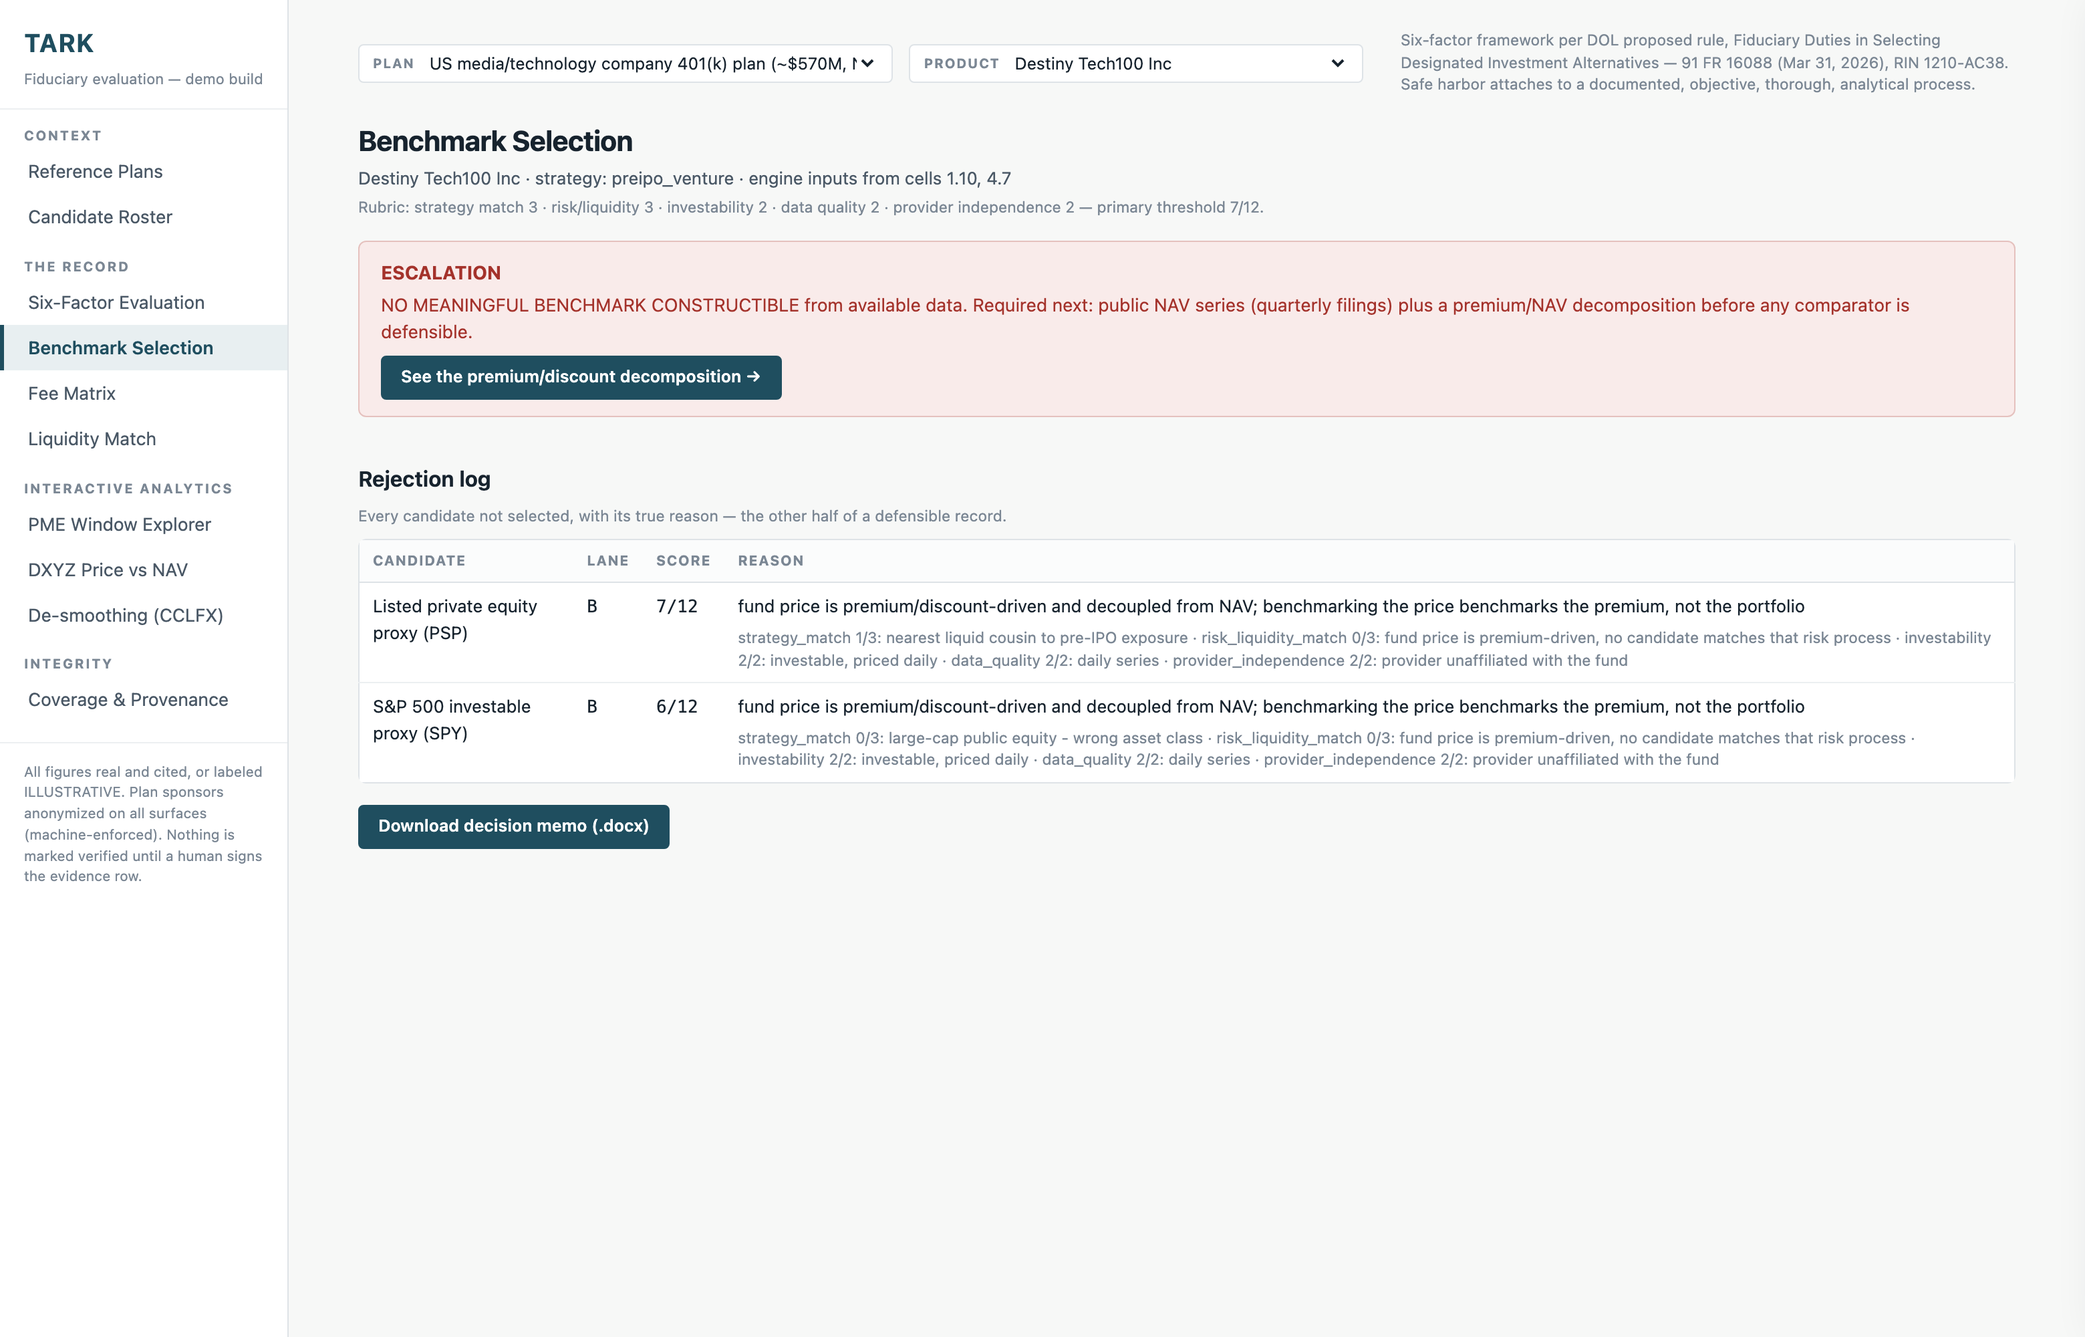
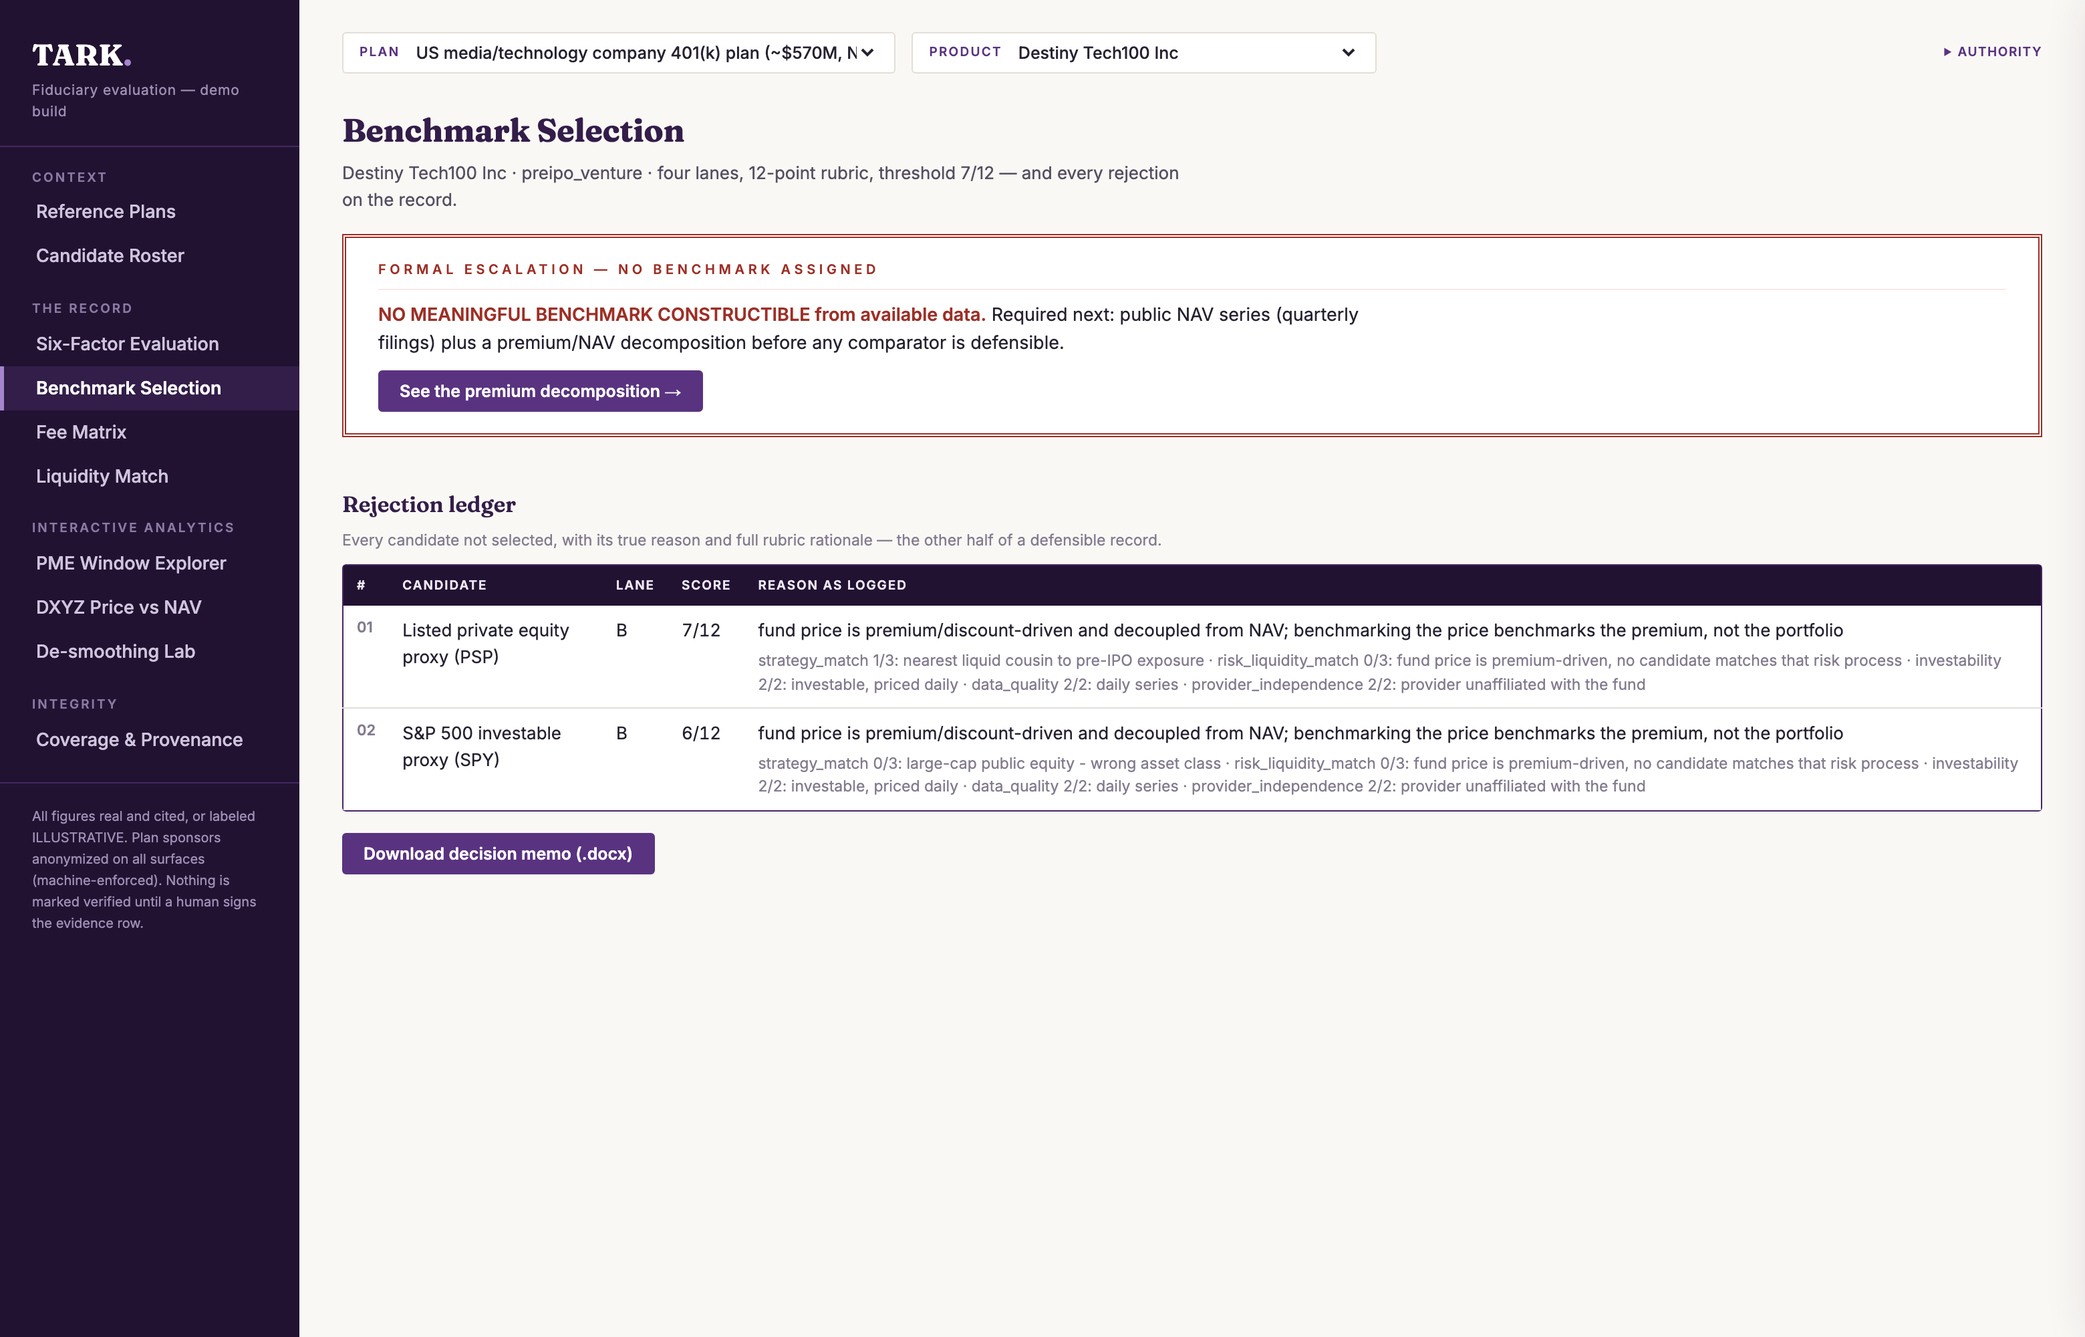
demo kit refresh: 10 new-design screenshots (incl. breit rho exhibit), demo script v3, runbook update, BUILD_REPORT_2

Changed region(s): [[0.0, 0.0, 0.9949, 1.0], [0.6218, 0.031, 0.9638, 0.062]]

diff --git a/docs/demo_script.md b/docs/demo_script.md
@@ -1,20 +1,24 @@
-# Tark Demo Script — 7 minutes (investor MVP frontend)
+# Tark Demo Script — 7 minutes (design-pass build)
 ### Setup: docs/INVESTOR_DEMO.md reset steps done; browser on the Pages URL, Reference Plans view, tech/media plan selected. Fallback: docs/screenshots/.
 
-**0:00 — Reference Plans.** "Four real 401(k) plans from public Form 5500 filings — anonymized by rule, machine-enforced. A ~$570M tech/media plan, a $1.6B restaurant plan where only 43,000 of 198,000 active employees even hold a balance, a $9.8B consulting plan where 58% of accounts belong to alumni, and a $790M union manufacturer. Same products, different plans — you'll see the answers change." Click the tech/media card.
+**0:00 — Reference Plans.** "Four real 401(k) plans from public Form 5500 filings, anonymized by machine-enforced rule. Numbers first: a ~$570M tech plan, a $9.8B consulting plan where 58% of accounts are alumni, a $1.6B restaurant plan where most actives hold no balance, a $790M industrial plan. The plan you pick drives every verdict."
 
-**0:45 — Candidate Roster.** "Six real products, six wrappers, live evidence coverage — every cell traceable to a filing. 54% coverage, and the UI shows what's pending instead of hiding it."
+**0:45 — Coverage & Provenance.** "Before any analysis: the state of the record. *54% evidenced, 18% computed, 27% documented-unavailable, zero unresolved.* Every one of 324 cells is either cited to a filing, computed by the pipeline, or carries a specific reason it cannot be public-sourced. And the integrity stat: an independent cross-check re-located 44 cells, confirmed 42, caught 2 errors we corrected in the open. Zero cells are human-verified yet — the record says so itself."
 
-**1:15 — Six-Factor Evaluation (hl_paf).** Open Fees → cell 2.1 → **cite**: *"1.40% — but on Managed Assets, which includes leverage. The drawer shows the filing, the section, the verbatim quote, and who extracted it. Nothing here is 'verified' until a human signs the evidence row — that honesty is the product."*
+**1:30 — Six-Factor Evaluation (hl_paf).** "Every cell leads with its figure; the prose is one click away, and jargon defines itself on hover." Open 2.1's source: *"1.40% — on Managed Assets, leverage-inclusive. Filing, section, verbatim quote, extractor, and the empty verified-by line a human still has to sign."* Point at the rollup strip: *"six factors, evidenced counts, one click each."*
 
-**2:15 — Fee Matrix.** "All six side by side. Red chips are derived from the cells themselves: BREIT and K-PEC charge on NAV; DXYZ charges 2.50% on GROSS assets including borrowings — the leverage-inclusive trap; Hamilton Lane on Managed Assets. And the K-1 row: K-PEC issues Schedule K-1s — near-disqualifying for a DC recordkeeper; StepStone advertises 1099s in its prospectus. Same factor, opposite answers, both cited."
+**2:15 — Fee Matrix.** "The bar chart is only the funds that HAVE an expense ratio — where there's no TER line, the chart says so instead of faking one. Red chips: DXYZ charges 2.50% on GROSS assets including borrowings; K-PEC issues K-1s — StepStone advertises 1099s. Same factor, opposite answers, all cited."
 
-**3:00 — Benchmark Selection (cliffwater_cclfx).** "The moat. Four lanes, a 12-point rubric, and the rejection log with full rationale printed — the CDLI is the most strategy-exact index available and it's published by the fund's own adviser; the engine scored independence 0/2 and says so, in writing. The fund itself declares NO benchmark — so the engine constructs one and logs why." Point at KS-PME 1.2532 / +3.22%. Click **Download decision memo**.
+**3:00 — Benchmark Selection (cliffwater_cclfx).** "Four lanes, 12-point rubric, and the rejection LEDGER — every rejected candidate numbered, with its full rubric rationale printed. The CDLI is the most strategy-exact index and it's published by the fund's own adviser: independence 0/2, on the record. KS-PME 1.2532, +3.22% alpha." Download the memo.
 
-**4:00 — Benchmark Selection (dxyz) → DXYZ Price vs NAV.** "When no meaningful benchmark exists, the tool refuses and escalates." Click through to the chart: *"Listed at $8.25 open, $99.79 twelve days later, −90.3% drawdown — and the red dots are the fund's own quarterly NAV: $5 to $24.56. The gap IS the premium. Benchmarking that price benchmarks the premium, not the portfolio."*
+**3:45 — Benchmark Selection (kkr_kpec, then breit).** "New since last build: the two 10-K wrappers now have full selections — and the engine is honest when the answer is unflattering. K-PEC: PME 0.90 vs listed PE. BREIT: PME 0.91 vs listed REITs, with NCREIF ODCE as secondary — cited but honestly labeled as data-not-held. No product gets a free pass because it's on the roster."
 
-**4:45 — Liquidity Match (cclfx, tech/media plan).** "Quarterly 5% interval fund — eight consecutive N-23C3A filings prove the cadence — against this plan: CONDITIONAL, structural gap named, bridging structure named." **Switch plan to the consulting plan:** *"Same fund, different plan: the tail is 58% of accounts, scenario demand eats two-thirds of wrapper capacity — THIN HEADROOM — and this plan's own 5500 codes say it's only partially participant-directed, so the structural reasoning changes too. Same fund, two plans, two answers."* Switch product to breit: *"CONDITIONAL-WEAK — its own 10-K admits prorated repurchases. Capacity on paper has failed in stress, and the record says so."* Drag a slider: *"Scenario parameters are adjustable and labeled ILLUSTRATIVE — always."*
+**4:15 — DXYZ.** "And when no benchmark is defensible, a FORMAL NOTICE, not a hedge." Click through to the chart: *"$8-ish to $99.79 to −90.3%, red dots are the fund's own filed NAV crawling from $5 to $24.56. The gap is the premium; benchmarking the price benchmarks the premium."*
 
-**5:45 — PME Window Explorer.** "The new beat. This is our own methodology's disclosure made interactive: appraisal-lagged NAVs are window-sensitive. Watch the alpha change when I move the window start—" drag: 1.2532 becomes something else, live. *"Everyone else hides this; we lead with it. The committed number uses the full disclosed window, and the code that just recomputed passes the same unit tests as the engine."*
+**5:00 — Liquidity Match (cclfx, tech plan → consulting plan).** "Wrapper capacity is a filed fact; demand is an adjustable ILLUSTRATIVE scenario — watch the bars." Switch to the consulting plan: *"58% alumni tail: demand eats two-thirds of capacity — THIN HEADROOM — and under the stress test it EXCEEDS the wrapper entirely. Same fund, two plans, two answers, and the plan's own 5500 codes changed the structural reasoning."* Drag a slider: bars move live.
 
-**6:30 — Coverage & Provenance + close.** "54% evidence coverage, extracted vs computed vs pending all shown, zero cells human-verified yet — and the integrity stat: an independent cross-check re-located 44 cells, confirmed 42, caught 2 errors which we corrected in the open. Six factors, real filings, a rejection log, plan-level liquidity verdicts, a memo for ERISA counsel — the workflow layer for the rule's effective date."
+**5:45 — De-smoothing Lab.** "The smoothing story now has two exhibits. CCLFX: ρ 0.139, mild. BREIT — from its OWN printed monthly NAV table: ρ 0.483, heavy; observed 2.4% de-smooths to 4.1%. That's the quantitative counterpart of its gating history: smoothed NAV, real redemptions. And for the funds where this diagnostic can't run, the reason renders where the chart would be."
+
+**6:15 — PME Window Explorer.** "Our methodology's own disclosure, interactive: drag the window and watch 1.2532 move. Everyone else hides window-sensitivity; we lead with it — the committed number uses the full disclosed window, and the browser runs the same parity-tested code as the engine."
+
+**6:45 — Close.** "A complete record — zero unresolved cells — with its rejections, its stress tests, its corrections, and its unverified-by-a-human honesty all on the surface. This is the workflow layer for the rule's effective date."

diff --git a/docs/BUILD_REPORT_2.md b/docs/BUILD_REPORT_2.md
@@ -1,0 +1,59 @@
+# Tark Build Report 2 — Coverage Max-Out + Design Pass
+**2026-08-09 · branch `design-pass` merged to `main` · rollback tag `pre-design-pass`**
+
+## 1. Coverage taxonomy: before → after
+
+| | before (v10) | after |
+|---|---|---|
+| Evidenced (extracted + partial + fetched) | 149 cells | **176 cells (54%)** |
+| Computed (pipeline, with artifact provenance) | 10 | **59 (18%)** |
+| Documented-unavailable (specific, true reasons) | 36 | **89 (27%)** |
+| Bare `pending` | **129** | **0** |
+
+**The line the UI displays: "54% evidenced · 18% computed · 27% documented-unavailable · 0 unresolved."** (`data/analytics/taxonomy.json`, rendered on Coverage & Provenance.)
+
+Method: a 12-agent extract+adversarial-verify workflow resolved 70 cells from filings (every quote machine-checked against stripped filing text); 48 cells became `computed`/`fetched` via pipeline extensions (stressed redemption scenarios, universe fee percentile, stress windows, dxyz premium decomposition, engine-lane artifacts); the remainder carry specific documented reasons (LP-only economics, workflow cells, attestation-gated fact sheets, granularity limits). `pending-verify` was needed zero times.
+
+Notable finds along the way:
+- **BREIT prints a full monthly NAV table in its 10-K** (Jan 2023–Dec 2025, Class I). Extracted, adversarially verified against raw HTML, stored at `data/series_monthly/breit_nav.csv` → de-smoothing now runs on BREIT: **ρ = 0.483 (heavy smoothing), observed 2.41% → de-smoothed 4.12% ann. vol, −7.9% NAV-path drawdown** — the quantitative counterpart of its 2022–24 gating history.
+- **kkr_kpec + breit benchmark selections now exist** (the last faked-nothing gap): K-PEC → PSP primary, **KS-PME 0.8964 / −4.58%/yr**; BREIT → VNQ primary (NCREIF ODCE secondary, honestly labeled data-not-held), **KS-PME 0.9073 / −3.19%/yr** — both windows fully on-record (BREIT's 2023/2024 returns fetched from its prior two 10-Ks, now in `data/raw/breit/` + manifest). The engine does not flatter roster products.
+- **Methodology correction (disclosed):** displayed index growth was month-end-sampled while KS-PME anchored daily — windows starting on non-trading days silently dropped the first partial month. Both sides are now daily-anchored. Effect: cclfx KS-PME 1.2519 → **1.2532** (+3.21 → +3.22%/yr); hl_paf unchanged (1.9565). All tests, memos, and the JS port updated in lockstep; parity re-verified in-browser.
+- DXYZ quarterly NAV table could NOT be extended: the NPORT-P has no NAV-per-share element (documented in the record), and Jan–May 2026 monthly NAVs are printed nowhere — not interpolated.
+
+## 2. Design tokens summary (`site/app.css`)
+
+- **Purple ramp** `--plum-50…950`: #593380 saturated primary (actions/accents), #331d49–#221232 aubergine (headers/nav), pale tints for surfaces — over warm neutrals (paper #faf8f5, ink #262130, warm hairlines).
+- **Status colors moved OFF the brand axis** — `computed` re-hued from violet to **teal (#14636d)** so pipeline outputs never read as brand decoration; verified/extracted green, partial amber, fetched steel, escalation crimson, ILLUSTRATIVE burnt-orange badge. All pairings AA on their tints.
+- **Type:** Fraunces 600/700 (display headings) + Inter 400/500/600 (text; tabular numerals via `font-variant-numeric` for every figure). Committed woff2 via `@font-face` — zero runtime CDN calls; OFL licenses in `site/fonts/LICENSES.txt`.
+- **Components:** 4px spacing scale; ledger table (rejection log as numbered, ruled entries with full rubric rationale printed); **formal-notice** component for escalations (double-rule border, small-caps head); availability-honesty `nochart` block; glossary term chips (dotted underline, hover definition — plain language primary, term-of-art secondary); coverage rings; motion 160–220ms ease only. No gradients, no glassmorphism, no emoji.
+- **Numbers-first:** every cell renders headline figure → one plain-language line → full sourced text + provenance behind a "Full text & provenance" disclosure; per-factor rollup strips with anchor links; view intros cut to one sentence; the rule citation lives behind an "Authority" disclosure. ILLUSTRATIVE labels kept prominent everywhere scenario math shows.
+
+## 3. Chart inventory, by data tier (all generated from the bundle)
+
+| Tier | Products | Visuals |
+|---|---|---|
+| Daily series | cclfx, dxyz | full price/NAV lines (evaluation header chart); DXYZ price-vs-NAV log chart with filed NAV points + premium table; CCLFX observed-vs-de-smoothed monthly series; PME explorer (monthly window slider) |
+| Printed monthly | breit | monthly NAV path chart; de-smoothing lab (ρ 0.483 exhibit); NAV-path drawdown stat |
+| Filing-annual | hl_paf, stepstone_spm, kkr_kpec (+breit annual returns) | fiscal-year NAV/share charts from `data/series_annual/*.csv`, labeled "annual disclosure cadence"; PME explorer with fiscal-year window steps |
+| Per plan × product (24) | all | capacity-vs-demand bar visual (filed capacity vs illustrative base + stressed demand), live with sliders |
+| Cross-product | all | fee TER bar chart (no-TER wrappers say so in place); coverage rings ×6; taxonomy donut; crosscheck integrity tiles |
+| Impossible → reason rendered | hl/kkr/spm monthly diagnostics; dxyz de-smoothing | availability-honesty blocks with the documented reason, same voice as the DXYZ escalation |
+
+## 4. Punch list status
+- Manufacturer plan relabeled → "US industrial manufacturer 401(k) plan (~$0.8B, OH)" ✅
+- Chart tooltips (hover values + guide line, all line charts) ✅
+- Per-factor anchors (rollup strip) ✅
+- `docs/screenshots/` refreshed (10 shots, new design, incl. the BREIT ρ exhibit) ✅
+- `docs/demo_script.md` + `docs/INVESTOR_DEMO.md` updated ✅
+- e2e extended: details-open anonymization sweep (240 combos), glossary chips, kkr/breit selections asserted, new components (ledger, notice, rings, donut, capacity visual), JS↔Python parity re-verified after the anchoring correction ✅ — suite is now 66 checks; the mid-build hook rejection (stale `#o_dpct` locator) is the gate doing its job.
+
+## 5. Deferred, with reasons
+- **BREIT monthly Jan–May 2026 NAVs** — printed nowhere (10-Q carries only the Jun 30 point); not interpolated by policy.
+- **hl_paf / stepstone_spm / kkr_kpec monthly series** — fact sheets sit behind investor-attestation gates (not free-public); documented per cell 1.6/1.7/4.8. If the founders obtain them legitimately, the de-smoothing lab picks them up automatically (tier-driven).
+- **NCREIF ODCE series ingestion** — member/subscription distribution; kept in the menu as honestly-rejected/secondary-cited.
+- **Glossary coverage** — 36 terms; grows by editing one dict in `build_site.py`.
+
+## 6. Gates & deploys
+Hook (unchanged 7 steps, assertions strengthened): validator · analytics · benchmark · memo · Streamlit suite · site build (anonymization refusal) · frontend e2e. All green on the merge commit. Deploys: GitHub Pages redeployed from the merged build; Streamlit auto-redeploys from `main` (plan relabel + data updates flow through).
+
+Build-chat sync required: zip the full repo minus data/raw (`zip -r ~/Desktop/tark_repo_sync2.zip . -x 'data/raw/*' -x '.venv/*' -x '.git/*'`) and upload to the build chat for review.

diff --git a/docs/INVESTOR_DEMO.md b/docs/INVESTOR_DEMO.md
@@ -35,18 +35,15 @@ The build refuses to emit the bundle if any plan-sponsor token would leak.
 4. Open the Pages URL, hard-refresh (Cmd+Shift+R) to bust module cache.
 5. Land on **Reference Plans** with the tech/media plan selected (default).
 
-## Known rough edges
-- Charts are hand-rolled SVG: no tooltips/hover on data points yet (click
-  targets are the cite buttons, not chart geometry).
-- The six-factor view is one long scroll per product (no per-factor anchor
-  links yet); use browser find (Cmd+F) live if you need a specific cell fast.
-- `hl_paf` PME explorer moves in fiscal-year steps (annual disclosure is the
-  honest granularity); only CCLFX has the smooth monthly slider.
+## Known rough edges (design-pass build)
+- `hl_paf` / `kkr_kpec` / `breit` PME windows move in fiscal-year steps
+  (annual disclosure is the honest granularity); only CCLFX has the smooth
+  monthly slider.
 - Browser module caching: after a redeploy, one hard refresh may be needed.
-- kkr_kpec / breit have no benchmark selection JSON yet (10-K wrappers came
-  later); the Benchmark view states this honestly instead of faking one.
-- Coverage is 54% overall — the pending cells render as "pending" by design.
-  Zero cells are human-verified yet (CF2 pass outstanding); the UI says so.
+- Glossary hover-chips need a hover/tap; on touch devices tap the dotted term.
+- Zero cells are human-verified yet (CF2 pass outstanding); the UI says so —
+  that is a feature, not a gap. Record state: 54% evidenced · 18% computed ·
+  27% documented-unavailable · 0 unresolved.
 
 ## Fallback plan (in order)
 1. Pages URL fails → local `http.server` (step above, 10 seconds).
